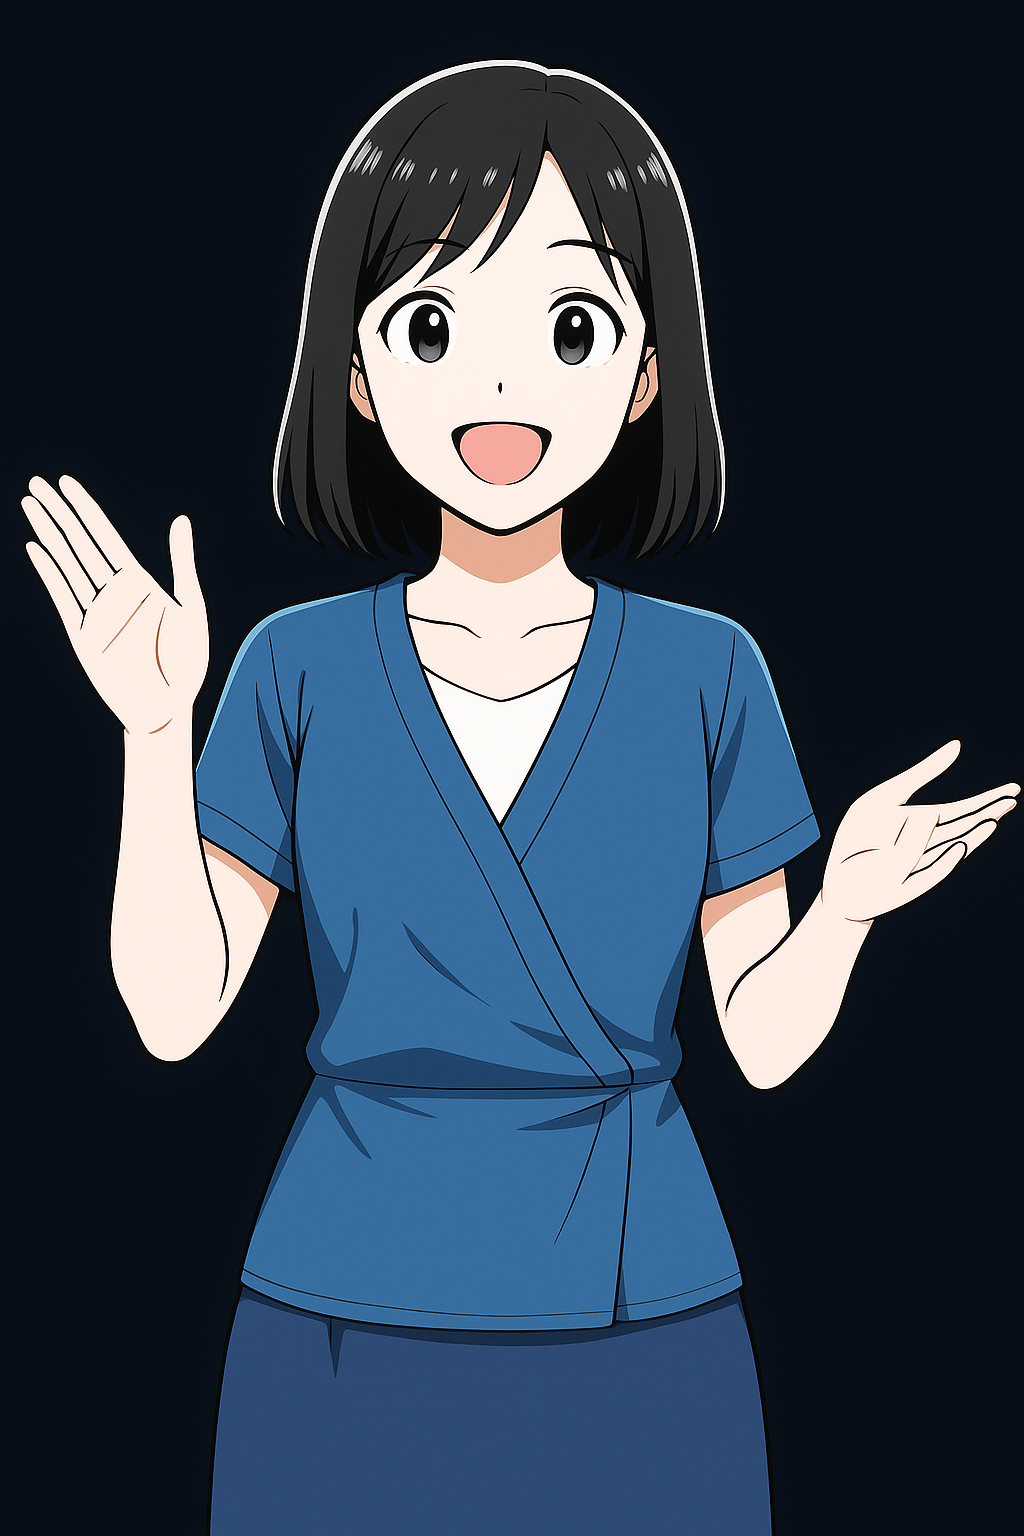
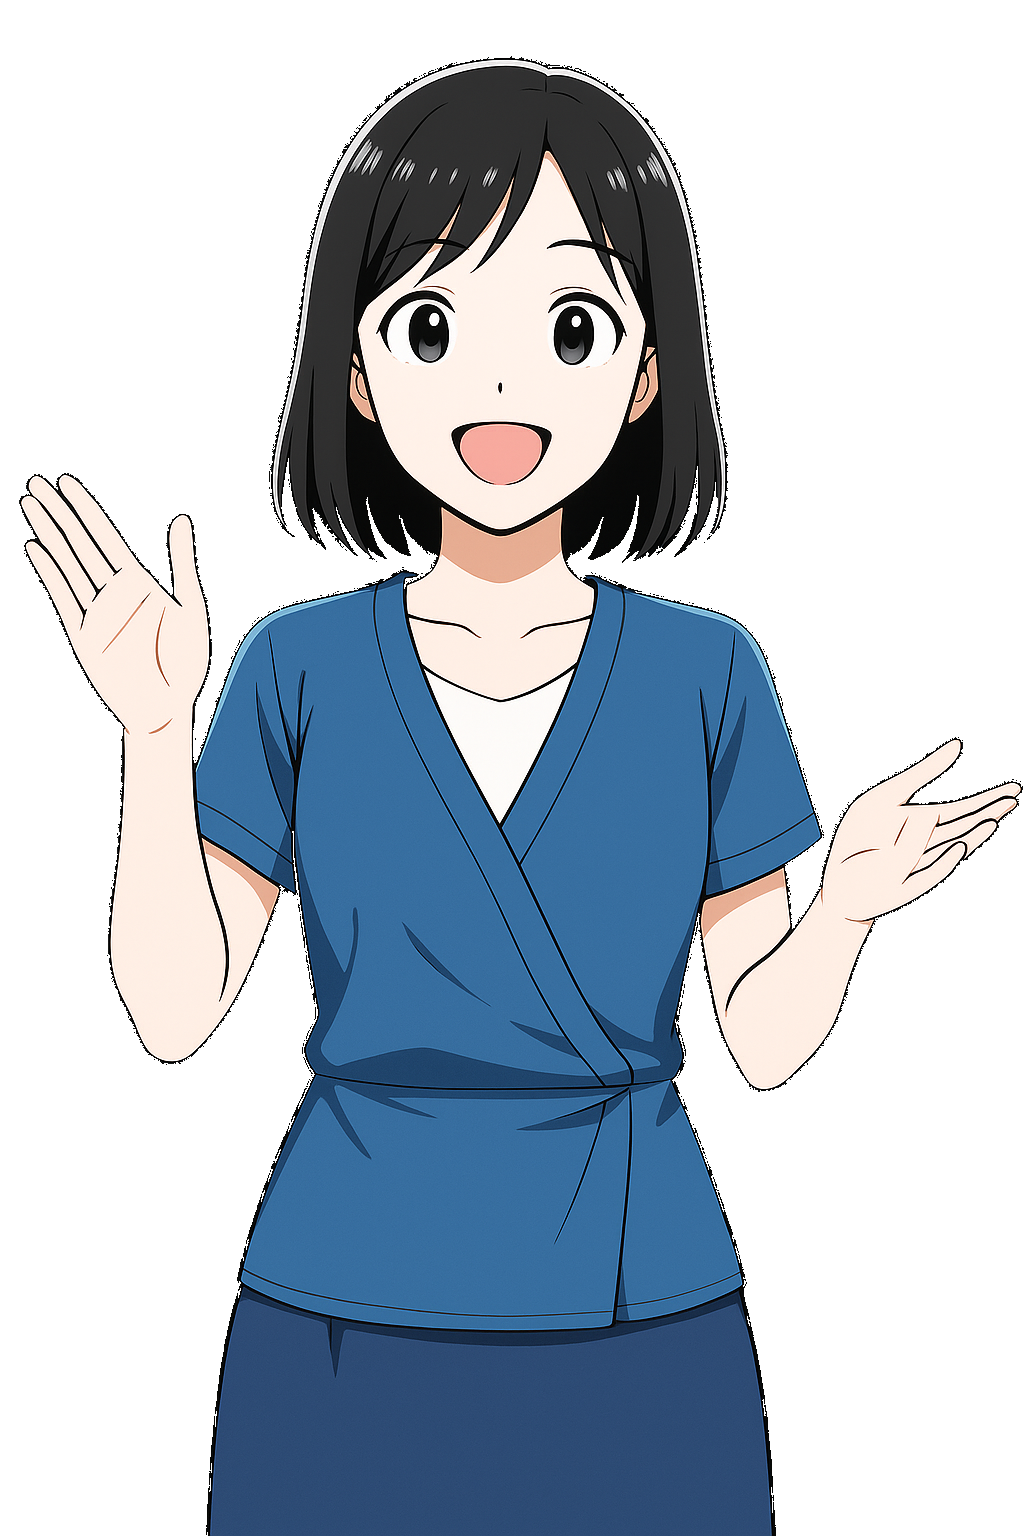
girl images - no-bg

diff --git a/app/index.tsx b/app/index.tsx
@@ -62,7 +62,6 @@ export default function Home() {
 
     return (
         <AppView style={s.outerContainer}>
-            <Image style={s.image} source={require("../assets/images/girl.03.png")} />
             <View style={s.container}>
                 <FadeIn y={50} x={0} delay={0}>
                     <AppTextLogo subtitles={t("app.slogan")} />
@@ -102,9 +101,6 @@ export default function Home() {
                 </FadeIn>
 
                 <FadeIn y={50} x={0} delay={500}>
-                    {/* <BlurView intensity={50} tint="dark"> */}
-                    <Text>hello</Text>
-                    {/* </BlurView> */}
                     <AppButton
                         onPress={() => navigateTo("/level-selection")}
                         text={t("routes.main.cta")}
@@ -133,6 +129,8 @@ export default function Home() {
                     }
                 />
             </View>
+
+            <Image style={s.image} source={require("../assets/images/girl.03.png")} />
         </AppView>
     );
 }
@@ -145,7 +143,7 @@ const s = StyleSheet.create({
         alignItems: "center",
         paddingTop: 104,
         paddingBottom: 54,
-        backgroundColor: Colors.dark.girlBG_0,
+        // backgroundColor: Colors.dark.girlBG_0,
         zIndex: 1,
     },
     container: {
@@ -160,9 +158,8 @@ const s = StyleSheet.create({
     },
     btnGroup: { backgroundColor: "transparent", alignItems: "center", rowGap: 12, width: 200, marginTop: -32 },
     btn: {
-        backgroundColor: "#000",
-        opacity: 0.4,
-        // backdropFilter: "blur(0.3)",
+        backgroundColor: "#343434",
+        // opacity: 0.4,
         borderWidth: StyleSheet.hairlineWidth,
         width: 200,
     },

diff --git a/app/test.tsx b/app/test.tsx
@@ -1,6 +1,7 @@
 import AppButton from "@/components/atoms/AppButton";
 import { AppText } from "@/components/atoms/AppText";
 import { BackLink } from "@/components/atoms/BackLink";
+import { useThemeColor } from "@/hooks/useThemeColor";
 import { Colors } from "@/utils/Colors";
 import { testBorder } from "@/utils/styles";
 import { useEffect, useState } from "react";
@@ -12,24 +13,24 @@ const girlImages = [
     require("../assets/images/girl.03.png"),
 ];
 
-const bgColors = [Colors.dark.girlBG_0, Colors.dark.girlBG_1, Colors.dark.girlBG_2];
-
 export default function TestScreen() {
     const [imgIdx, setImgIdx] = useState(0);
     const onUp = () => setImgIdx((prev) => (prev == girlImages.length - 1 ? 0 : prev + 1));
     const onDown = () => setImgIdx((prev) => (prev == 0 ? girlImages.length - 1 : prev - 1));
+
+    const backgroundColor = useThemeColor({ light: Colors.light.bg, dark: Colors.dark.bg }, "bg");
 
     useEffect(() => {
         console.log(imgIdx);
     }, [imgIdx]);
 
     return (
-        <SafeAreaView style={{ minHeight: "100%", backgroundColor: bgColors[imgIdx] }}>
+        <SafeAreaView style={{ minHeight: "100%", backgroundColor }}>
             <Image style={[s.image, { transform: [{ scaleX: imgIdx === 1 ? -1 : 1 }] }]} source={girlImages[imgIdx]} />
 
             <View style={s.container}>
                 <View style={s.top}>
-                    <View style={{ position: "absolute", left: 0, top: 6 }}>
+                    <View style={{ position: "absolute", left: 0, top: 46 }}>
                         <BackLink />
                     </View>
                     <AppText type="subtitle">Test</AppText>

diff --git a/app/level-selection.tsx b/app/level-selection.tsx
@@ -58,9 +58,9 @@ export default function LevelSelectionScreen() {
         if (!hasCompletedTour) setTourStep(0);
     }, [hasCompletedTour]);
 
-    useEffect(() => {
-        console.log({ tourStep });
-    }, [tourStep]);
+    // useEffect(() => {
+    //     console.log({ tourStep, sectionedLevels });
+    // }, [tourStep, sectionedLevels]);
 
     return (
         <SafeAreaView style={{ minHeight: "100%", backgroundColor }}>

diff --git a/utils/APP_NAME.ts b/utils/APP_NAME.ts
@@ -1,6 +1,3 @@
-// export const APP_NAME = "MusiNote";
-// export const APP_NAME = "MusicNotes";
 export const APP_NAME = "MusiNotes";
-// export const APP_NAME = "MuseNotes";
 // export const APP_NAME = "MusiFlow";
 // export const APP_NAME = "Sight Reader Pro";
